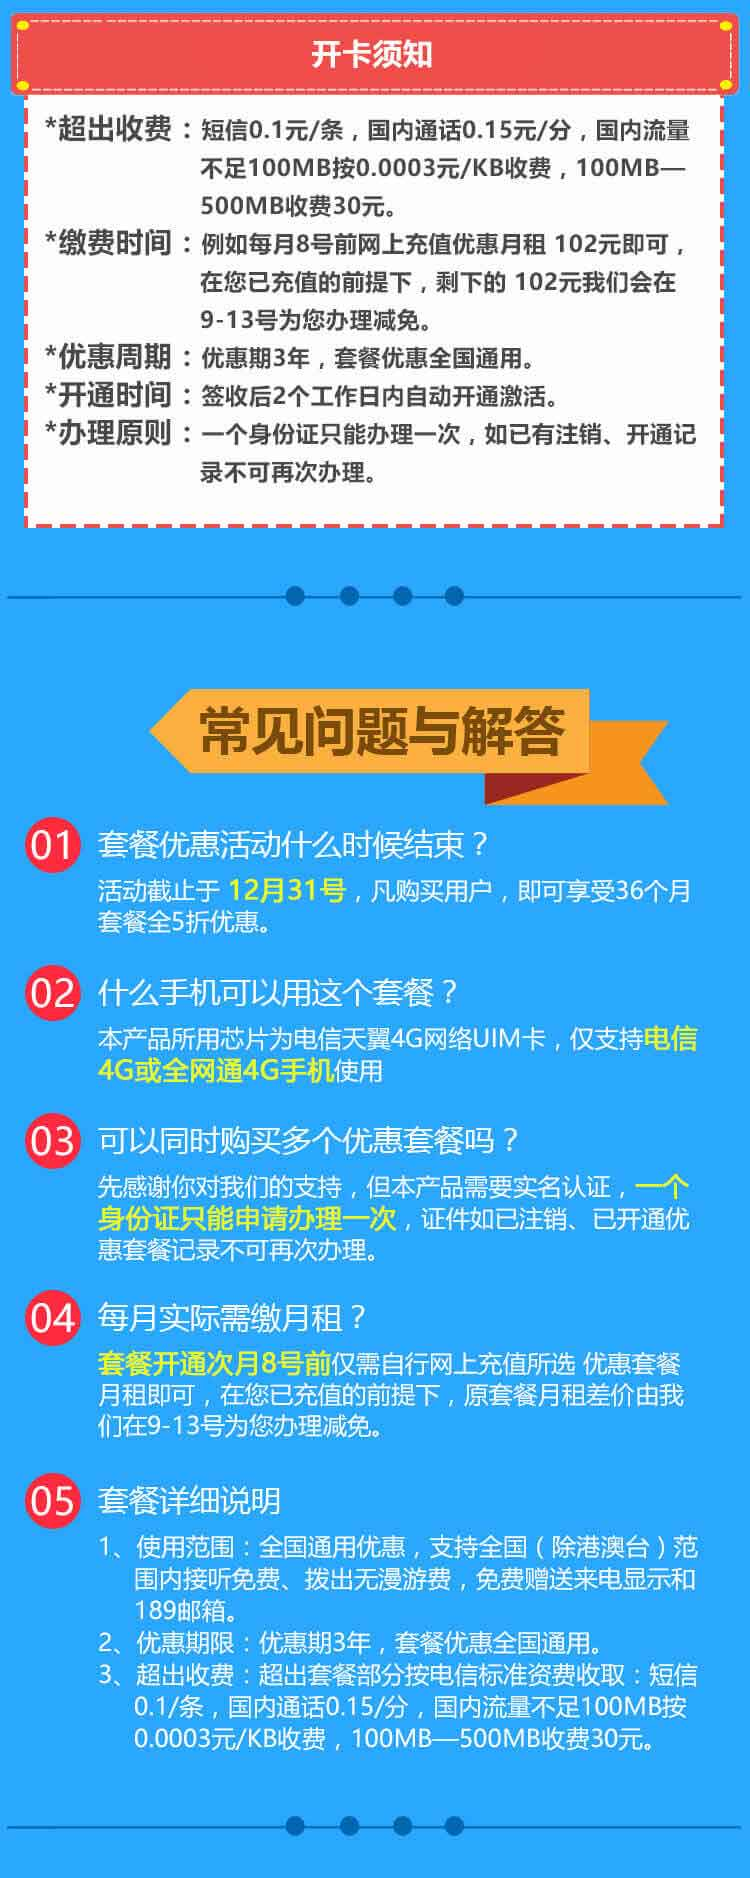
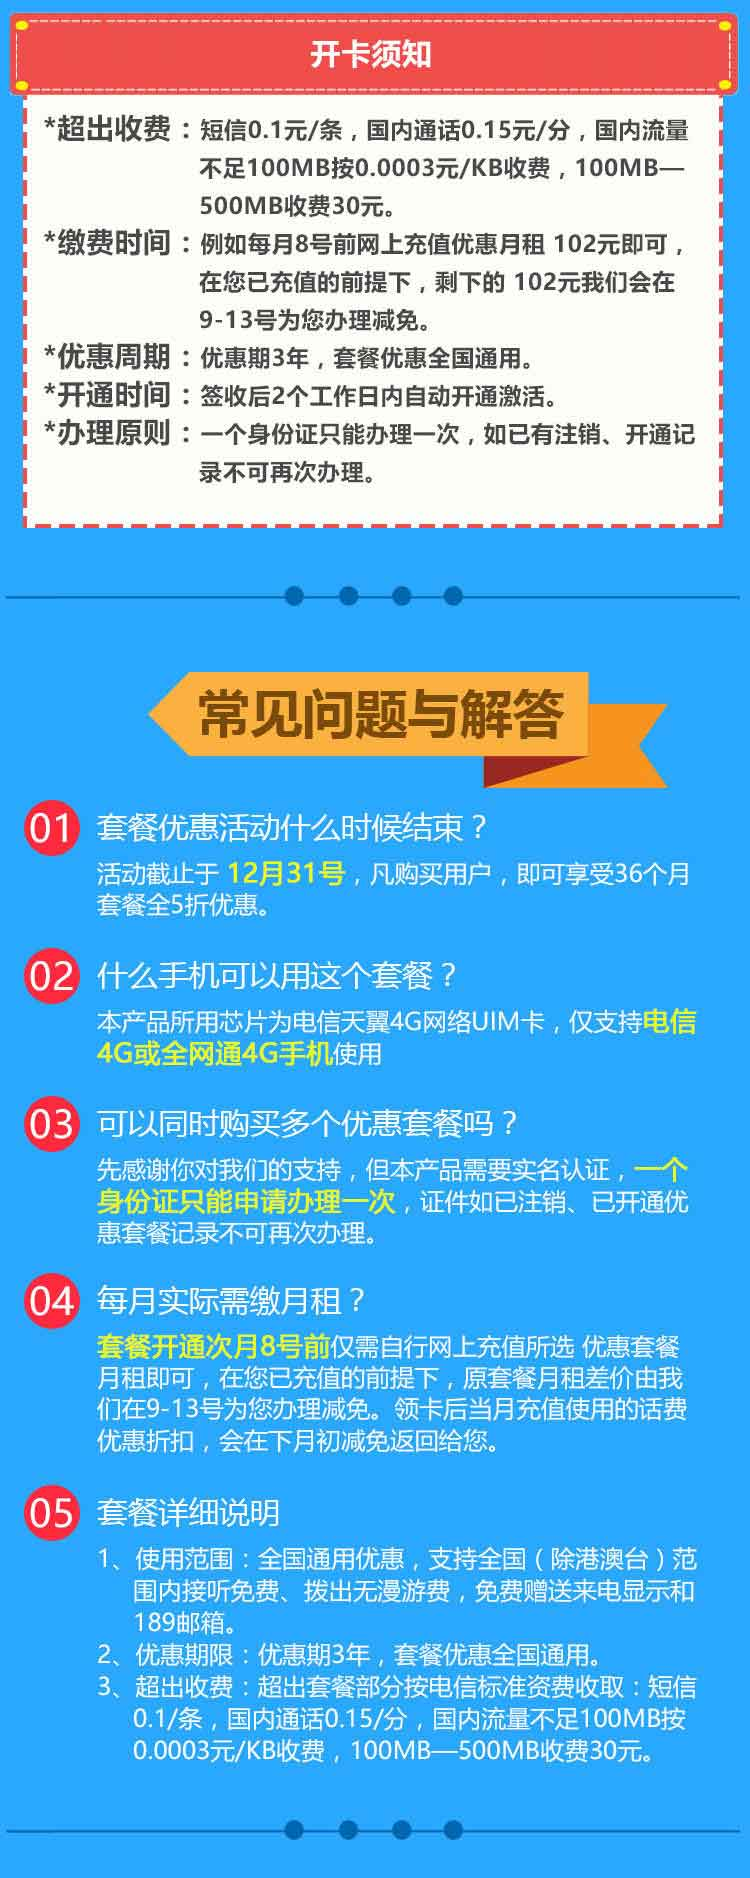
领卡后当月充值使用的话费优惠折扣，会在下月初减免返回给您。

diff --git a/public/html/modules/cardPackage/cardPkg.html b/public/html/modules/cardPackage/cardPkg.html
@@ -24,7 +24,7 @@
                         </li>
                         <li><div class="pure-g">
                             <div class="pure-u-1-4"><span class="star-color">*</span>缴费时间：</div>
-                            <div class="pure-u-3-4">每月8号前网上充值优惠月租 <span ng-bind="ssDd.salesPrice | number : 0" class="price" style="color:#d73e14"></span>元即可，在您已充值的前提下，剩下的 <span style="color:#d73e14" ng-bind="ssDd.oldPrice-ssDd.salesPrice | number:0" class="price"></span>元我们会在9-13号为您办理减免。</div>
+                            <div class="pure-u-3-4">每月8号前网上充值优惠月租 <span ng-bind="ssDd.salesPrice | number : 0" class="price" style="color:#d73e14"></span>元即可，在您已充值的前提下，剩下的 <span style="color:#d73e14" ng-bind="ssDd.oldPrice-ssDd.salesPrice | number:0" class="price"></span>元我们会在9-13号为您办理减免。领卡后当月充值使用的话费优惠折扣，会在下月初减免返回给您。</div>
                         </div></li>
                         <li><div class="pure-g">
                             <div class="pure-u-1-4"><span class="star-color">*</span>优惠周期：</div>

diff --git a/public/html/pages/phoneCard/index/A/index.html b/public/html/pages/phoneCard/index/A/index.html
@@ -89,7 +89,7 @@
                         </div>
                         <div class="list-content">
                             <div class="ctxt">
-                                <em>套餐开通次月8号前</em>仅需自行网上充值所选 优惠套餐月租即可，在您已充值的前提下，原套餐月租差价由我们在<em>9-13号</em>为您办理减免。
+                                <em>套餐开通次月8号前</em>仅需自行网上充值所选 优惠套餐月租即可，在您已充值的前提下，原套餐月租差价由我们在<em>9-13号</em>为您办理减免。领卡后当月充值使用的话费优惠折扣，会在下月初减免返回给您。
                             </div>
                         </div>
                         <div class="pros-line share-pros-line"></div>

diff --git a/public/spc/pcd/index.html b/public/spc/pcd/index.html
@@ -88,7 +88,7 @@
             </div>
                 <div class="list-content">
                     <div class="ctxt">
-                        <em>套餐开通次月8号前</em>仅需自行网上充值所选 优惠套餐月租即可，在您已充值的前提下，原套餐月租差价由我们在<em>9-13号</em>为您办理减免。
+                        <em>套餐开通次月8号前</em>仅需自行网上充值所选 优惠套餐月租即可，在您已充值的前提下，原套餐月租差价由我们在<em>9-13号</em>为您办理减免。领卡后当月充值使用的话费优惠折扣，会在下月初减免返回给您。
                     </div>
                 </div>
                 <div class="pros-line share-pros-line"></div></li>
